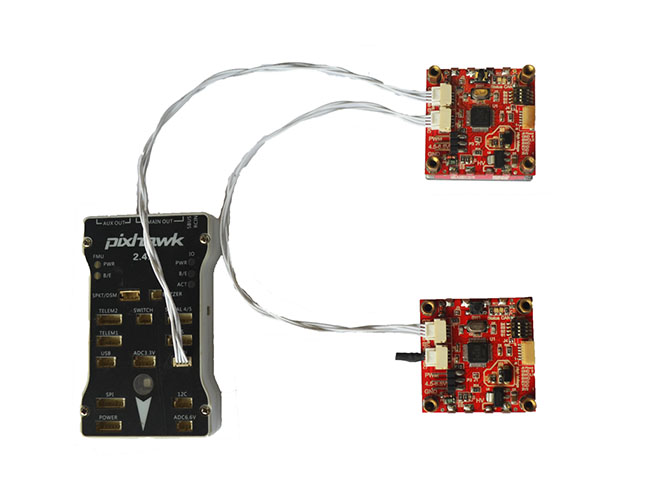
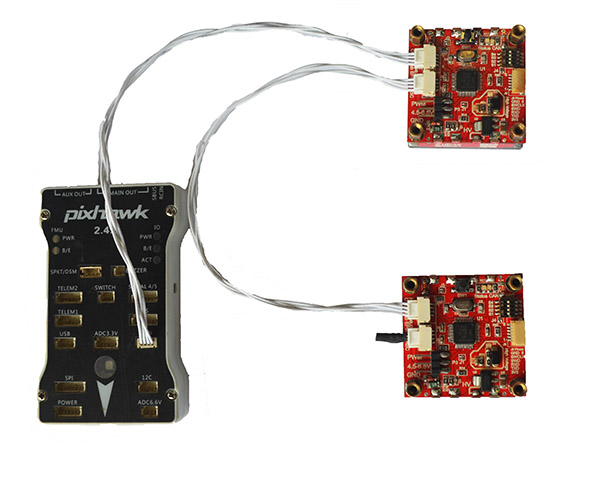
Removed unused picture, fixed description

Changed region(s): [[0.06, 0.0293, 0.9, 0.9079], [0.36, 0.1757, 0.45, 0.2636]]

diff --git a/0 Products/80 OpenGrab EPM v3/0 Main Page.md b/0 Products/80 OpenGrab EPM v3/0 Main Page.md
@@ -5,7 +5,7 @@
 <img src="image.jpg" class="thumbnail" title="Version 3R5C, top view">
 <img src="V3R4B.jpg" class="thumbnail" title="Version 3R4B, top view">
 <img src="bottom.jpg" class="thumbnail" title="Version 3R4B, bottom view">
-<img src="pixhawk_epm1.jpg" class="thumbnail" title="Pixhawk EPM">
+<img src="pixhawk_epm.jpg" class="thumbnail" title="Pixhawk connected to two EPM modules via UAVCAN">
 
 The OpenGrab EPM v3 is an electropermanent magnet, combining the advantages of electro and permanent magnets.
 The device creates a very strong magnetic contact with a ferrous target.
